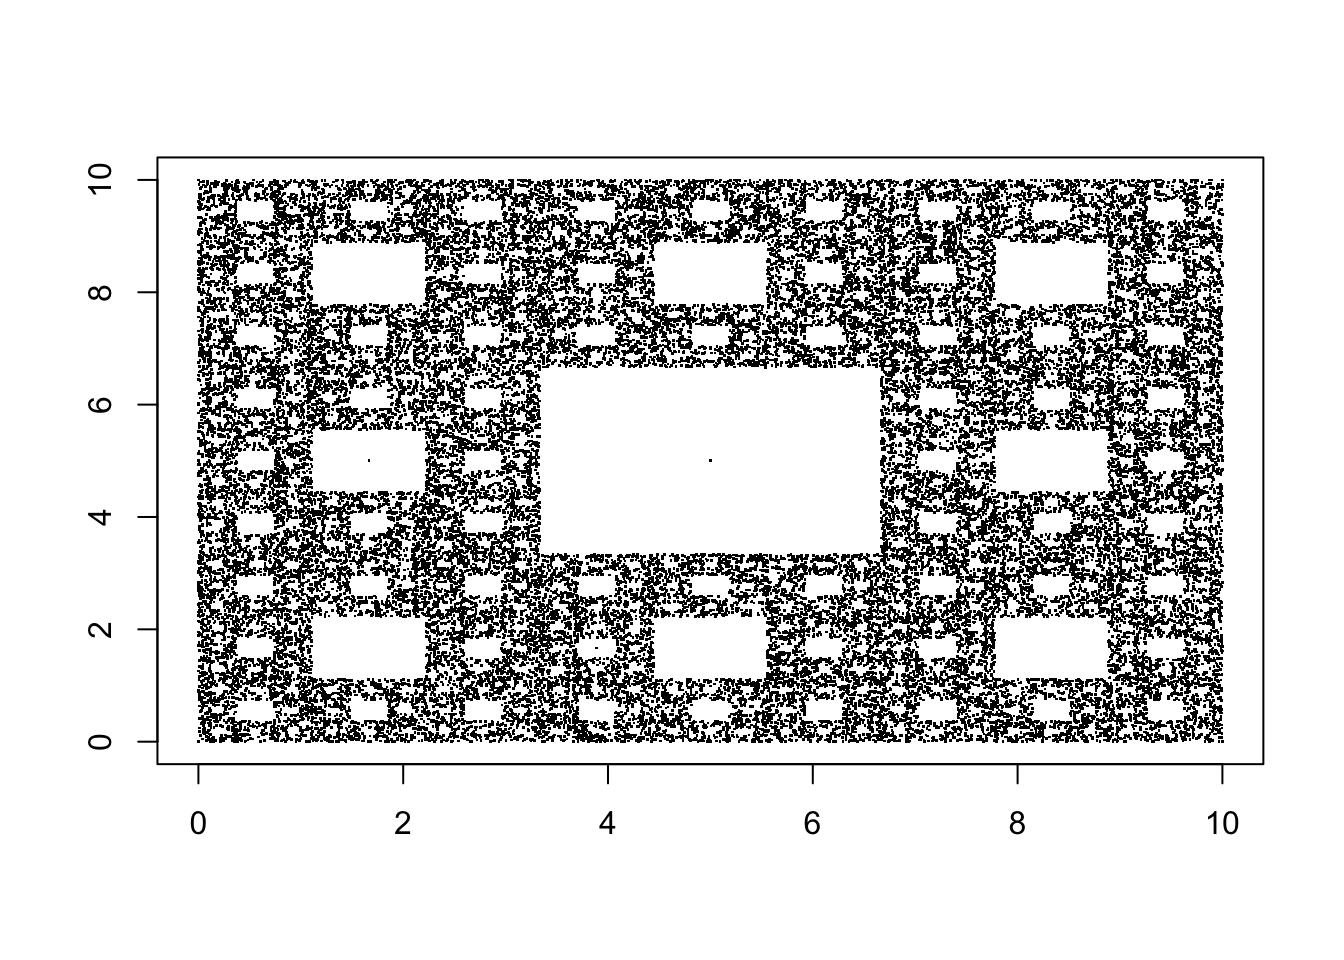
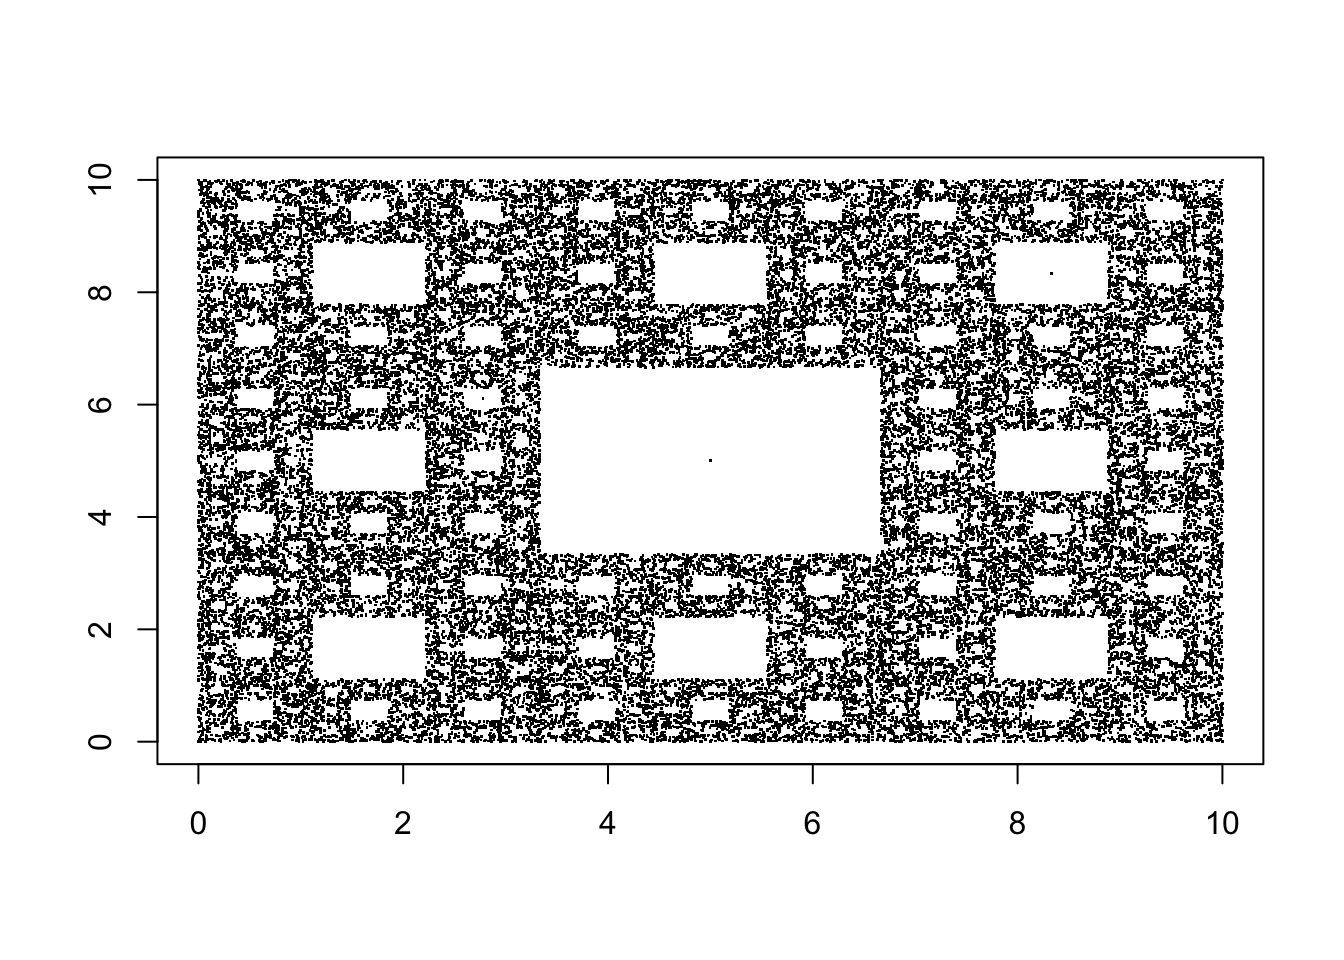
updated old blog

Changed region(s): [[0.125, 0.1875, 0.9062, 0.7812]]

diff --git a/content/post/Older Posts/2015-07-16-sierpinski-triangles-and-carpets-in-r.html b/content/post/Older Posts/2015-07-16-sierpinski-triangles-and-carpets-in-r.html
@@ -24,7 +24,7 @@ tags:
 <p>I thought, well - it’s got to be something cool or else the professor wouldn’t ask, but I can’t imagine it will be more than a cloud of dots. Truth be told, I went to a conference for work the week of this assignment and never did it - but when I went to the next class, <strong>IT WAS SOMETHING COOL!</strong> It turns out that this creates a <a href="https://en.wikipedia.org/wiki/Sierpinski_triangle">Sierpinski Triangle</a> - a fractal of increasingly smaller triangles.</p>
 <p>I wanted to check this out for myself, so I built an R script that creates the
 triangle. I ran it a few times with differing amounts of points. Here is one
-with 100,000 points. Though this post is written in RStudio, I’ve hidden the code
+with 50,000 points. Though this post is written in RStudio, I’ve hidden the code
 for readability. Actual code for this can be found
 <a href="https://github.com/jrozra200/pretty_triangles/blob/master/createTriangle.R">here</a>.</p>
 <p><img src="/post/Older Posts/2015-07-16-sierpinski-triangles-and-carpets-in-r_files/figure-html/sierpinski_triangle-1.png" width="100%" /></p>
@@ -47,7 +47,7 @@ is repeated time and again in smaller and smaller increments.</p>
 putting it together - I think it would be cool to add some other features,
 especially when it comes to the plotting of the points. Also - I’d like to run
 it for a million or more points… I just lacked the patience to wait out the
-script to run for that long (100,000 points took about 30 minutes to run - my
+script to run for that long (50,000 points took about 30 minutes to run - my
 script is probably not the most efficient).</p>
 <p>Anyways - really cool to see what happens in math sometimes - its hard to imagine
 at first that the triangle would look that way. Another reason math is cool!</p>
